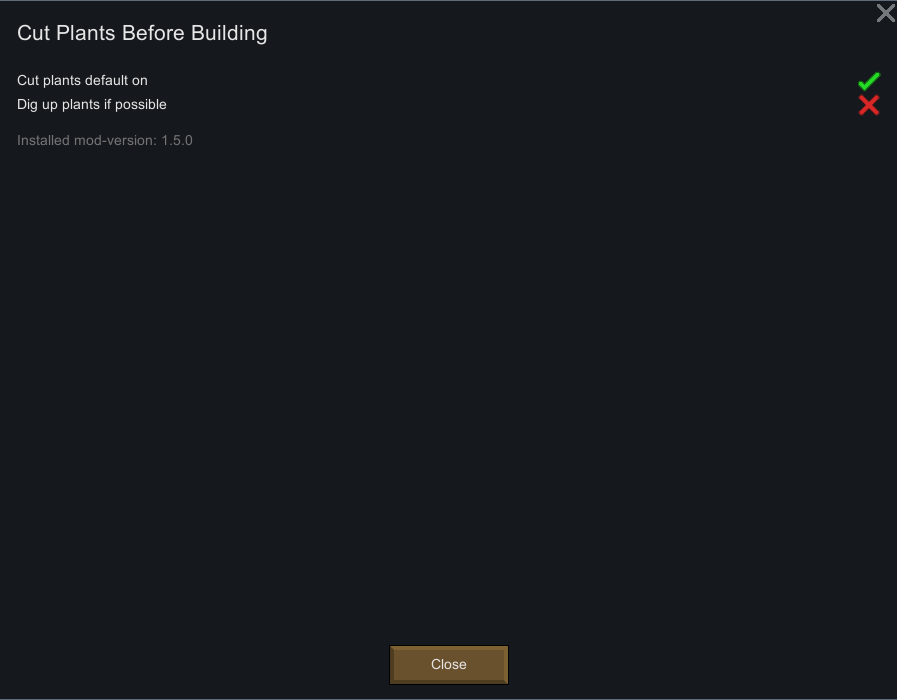
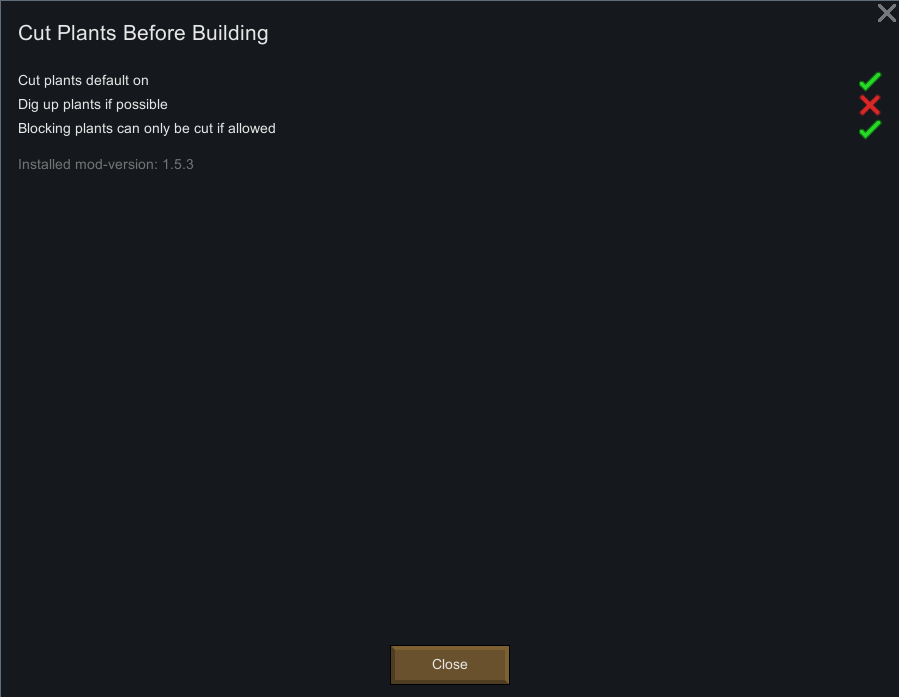
Added setting to not show messages when special trees are skipped Used DeepL to update translations for ChineseSimplified, French, German, Japanese, Polish

diff --git a/Source/CutPlantsBeforeBuilding/HarmonyPatches/Designator_Install_DesignateSingleCell.cs b/Source/CutPlantsBeforeBuilding/HarmonyPatches/Designator_Install_DesignateSingleCell.cs
@@ -5,9 +5,9 @@ using Verse;
 namespace CutPlantsBeforeBuilding.HarmonyPatches;
 
 [HarmonyPatch(typeof(Designator_Install), nameof(Designator_Install.DesignateSingleCell))]
-internal class Designator_Install_DesignateSingleCell
+public class Designator_Install_DesignateSingleCell
 {
-    private static void Postfix(Designator_Build __instance, IntVec3 c, Rot4 ___placingRot)
+    public static void Postfix(Designator_Build __instance, IntVec3 c, Rot4 ___placingRot)
     {
         Util.DesignatePlants(c, ___placingRot, __instance.PlacingDef, __instance.StuffDef, Find.CurrentMap);
     }

diff --git a/Source/CutPlantsBeforeBuilding/HarmonyPatches/Designator_Build_DesignateSingleCell.cs b/Source/CutPlantsBeforeBuilding/HarmonyPatches/Designator_Build_DesignateSingleCell.cs
@@ -5,9 +5,9 @@ using Verse;
 namespace CutPlantsBeforeBuilding.HarmonyPatches;
 
 [HarmonyPatch(typeof(Designator_Build), nameof(Designator_Build.DesignateSingleCell))]
-internal class Designator_Build_DesignateSingleCell
+public class Designator_Build_DesignateSingleCell
 {
-    private static void Postfix(Designator_Build __instance, IntVec3 c, Rot4 ___placingRot)
+    public static void Postfix(Designator_Build __instance, IntVec3 c, Rot4 ___placingRot)
     {
         Util.DesignatePlants(c, ___placingRot, __instance.PlacingDef, __instance.StuffDef, Find.CurrentMap);
     }

diff --git a/Source/CutPlantsBeforeBuilding/CutPlantsBeforeBuildingMod.cs b/Source/CutPlantsBeforeBuilding/CutPlantsBeforeBuildingMod.cs
@@ -55,6 +55,8 @@ internal class CutPlantsBeforeBuildingMod : Mod
             "CutPlantsBeforeBuilding.DigUpTT".Translate());
         listing_Standard.CheckboxLabeled("CutPlantsBeforeBuilding.OnlyCutters".Translate(), ref Settings.OnlyCutters,
             "CutPlantsBeforeBuilding.OnlyCuttersTT".Translate());
+        listing_Standard.CheckboxLabeled("CutPlantsBeforeBuilding.NoInfo".Translate(), ref Settings.NoInfo,
+            "CutPlantsBeforeBuilding.NoInfoTT".Translate());
         if (currentVersion != null)
         {
             listing_Standard.Gap();

diff --git a/Source/CutPlantsBeforeBuilding/HarmonyPatches/Designator_AreaBuildRoof_DesignateSingleCell.cs b/Source/CutPlantsBeforeBuilding/HarmonyPatches/Designator_AreaBuildRoof_DesignateSingleCell.cs
@@ -5,9 +5,9 @@ using Verse;
 namespace CutPlantsBeforeBuilding.HarmonyPatches;
 
 [HarmonyPatch(typeof(Designator_AreaBuildRoof), nameof(Designator_AreaBuildRoof.DesignateSingleCell))]
-internal class Designator_AreaBuildRoof_DesignateSingleCell
+public class Designator_AreaBuildRoof_DesignateSingleCell
 {
-    private static void Postfix(Designator_AreaBuildRoof __instance, IntVec3 c)
+    public static void Postfix(Designator_AreaBuildRoof __instance, IntVec3 c)
     {
         foreach (var item in __instance.Map.thingGrid.ThingsAt(c))
         {

diff --git a/Source/CutPlantsBeforeBuilding/CutPlantsBeforeBuildingSettings.cs b/Source/CutPlantsBeforeBuilding/CutPlantsBeforeBuildingSettings.cs
@@ -9,6 +9,7 @@ internal class CutPlantsBeforeBuildingSettings : ModSettings
 {
     public bool DefaultMode = true;
     public bool DigUp;
+    public bool NoInfo;
     public bool OnlyCutters = true;
 
     /// <summary>
@@ -20,5 +21,6 @@ internal class CutPlantsBeforeBuildingSettings : ModSettings
         Scribe_Values.Look(ref DefaultMode, "DefaultMode", true);
         Scribe_Values.Look(ref OnlyCutters, "OnlyCutters", true);
         Scribe_Values.Look(ref DigUp, "DigUp");
+        Scribe_Values.Look(ref NoInfo, "NoInfo");
     }
 }

diff --git a/Source/CutPlantsBeforeBuilding/HarmonyPatches/PlaySettings_DoPlaySettingsGlobalControls.cs b/Source/CutPlantsBeforeBuilding/HarmonyPatches/PlaySettings_DoPlaySettingsGlobalControls.cs
@@ -6,9 +6,9 @@ using Verse.Sound;
 namespace CutPlantsBeforeBuilding.HarmonyPatches;
 
 [HarmonyPatch(typeof(PlaySettings), nameof(PlaySettings.DoPlaySettingsGlobalControls))]
-internal class PlaySettings_DoPlaySettingsGlobalControls
+public class PlaySettings_DoPlaySettingsGlobalControls
 {
-    private static void Prefix(WidgetRow row, bool worldView)
+    public static void Prefix(WidgetRow row, bool worldView)
     {
         if (MyKeyBindingDefOf.TMB_ToggleAutoDesignatePlantsCutMode.JustPressed)
         {

diff --git a/Source/CutPlantsBeforeBuilding/HarmonyPatches/AutoBuildRoofAreaSetter_TryGenerateAreaNow.cs b/Source/CutPlantsBeforeBuilding/HarmonyPatches/AutoBuildRoofAreaSetter_TryGenerateAreaNow.cs
@@ -5,9 +5,9 @@ using Verse;
 namespace CutPlantsBeforeBuilding.HarmonyPatches;
 
 [HarmonyPatch(typeof(AutoBuildRoofAreaSetter), "TryGenerateAreaNow")]
-internal class AutoBuildRoofAreaSetter_TryGenerateAreaNow
+public class AutoBuildRoofAreaSetter_TryGenerateAreaNow
 {
-    private static void Postfix(Map ___map, HashSet<IntVec3> ___innerCells)
+    public static void Postfix(Map ___map, HashSet<IntVec3> ___innerCells)
     {
         foreach (var item in ___innerCells)
         {

diff --git a/Source/CutPlantsBeforeBuilding/Util.cs b/Source/CutPlantsBeforeBuilding/Util.cs
@@ -53,6 +53,11 @@ internal class Util
 
         if (notAllowedTrees.Contains(plant.def))
         {
+            if (CutPlantsBeforeBuildingMod.instance.Settings.NoInfo)
+            {
+                return;
+            }
+
             Messages.Message("CutPlantsBeforeBuilding.SpecialTree".Translate(plant.LabelCap), plant,
                 MessageTypeDefOf.RejectInput);
             return;

diff --git a/Source/CutPlantsBeforeBuilding/HarmonyPatches/PlantUtility_PawnWillingToCutPlant_Job.cs b/Source/CutPlantsBeforeBuilding/HarmonyPatches/PlantUtility_PawnWillingToCutPlant_Job.cs
@@ -5,7 +5,7 @@ using Verse;
 namespace CutPlantsBeforeBuilding.HarmonyPatches;
 
 [HarmonyPatch(typeof(PlantUtility), nameof(PlantUtility.PawnWillingToCutPlant_Job))]
-internal class PlantUtility_PawnWillingToCutPlant_Job
+public class PlantUtility_PawnWillingToCutPlant_Job
 {
     public static void Postfix(Pawn pawn, ref bool __result)
     {

diff --git a/README.md b/README.md
@@ -18,6 +18,7 @@ Added mod-settings
 
 - The default on-state
 - Dig up if possible
+- Only allow cutting by pawns with plant cutting enabled
 
 
 
